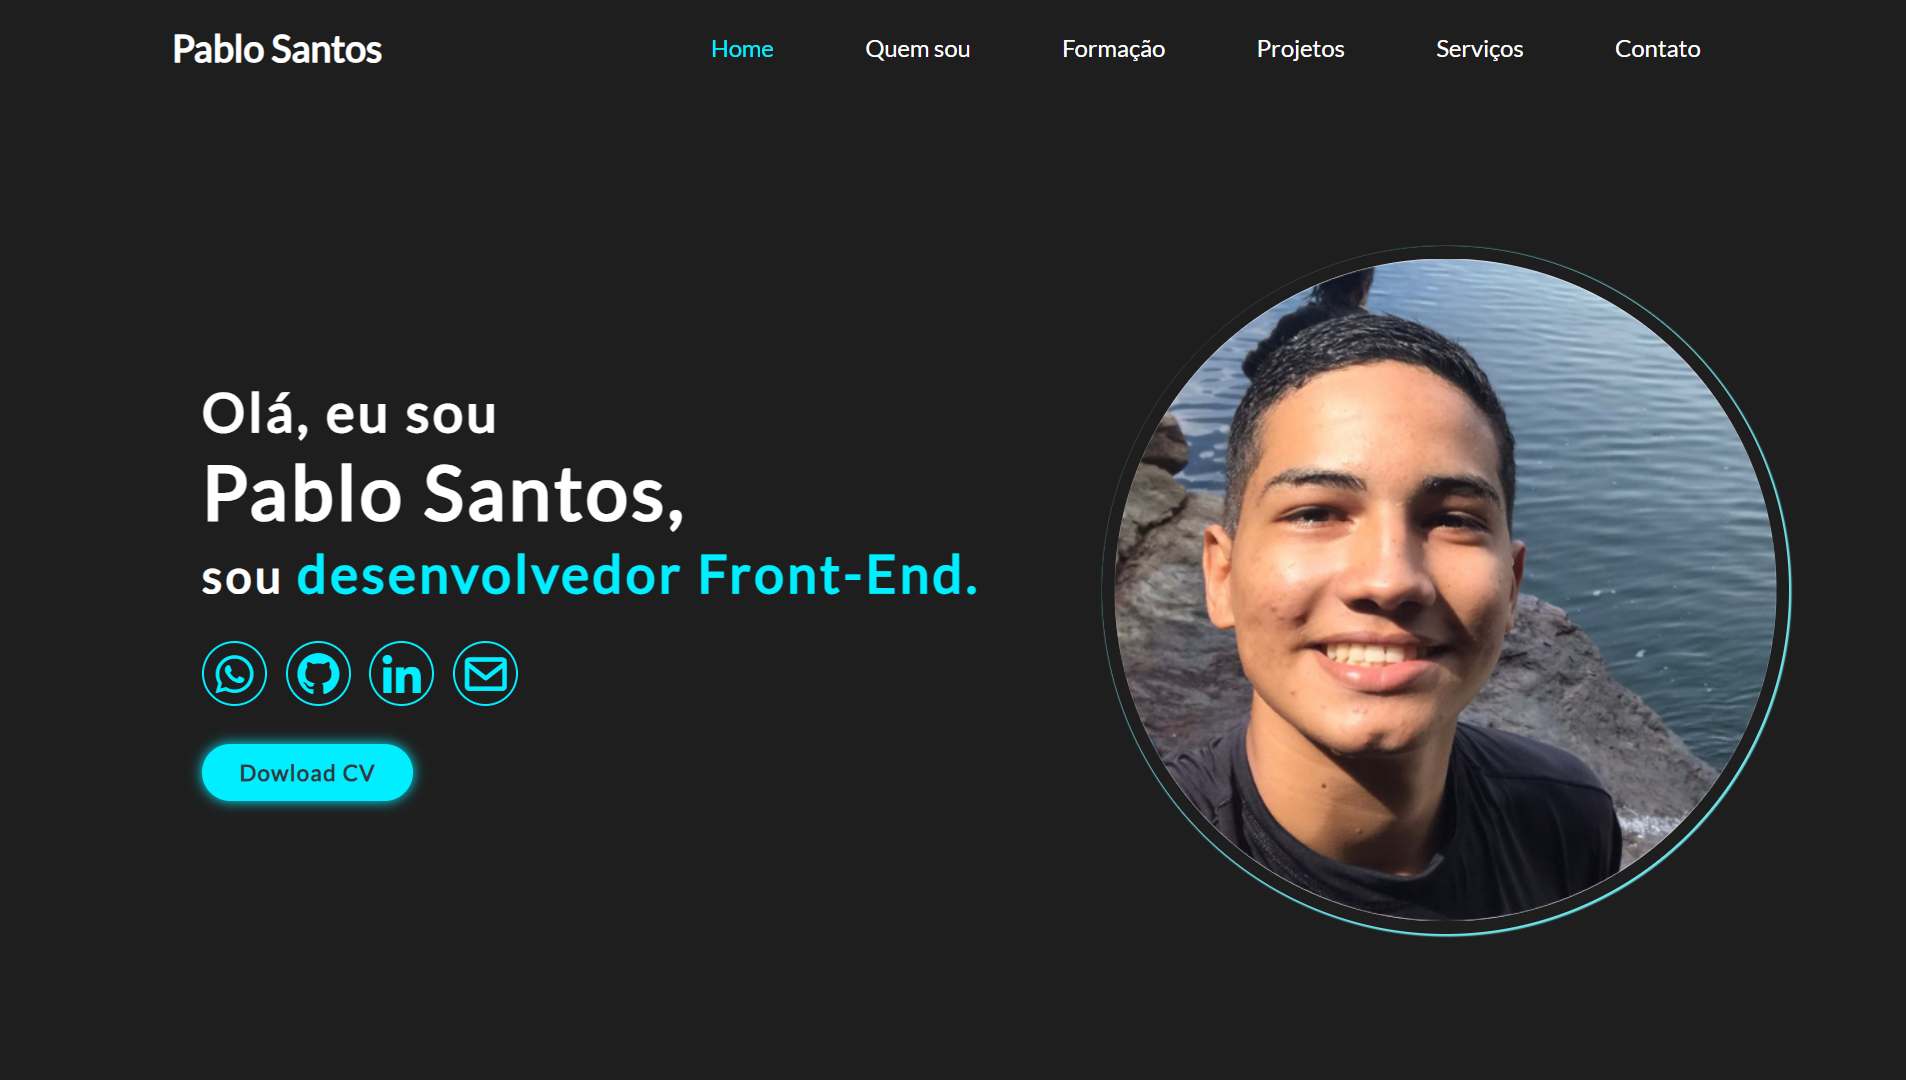
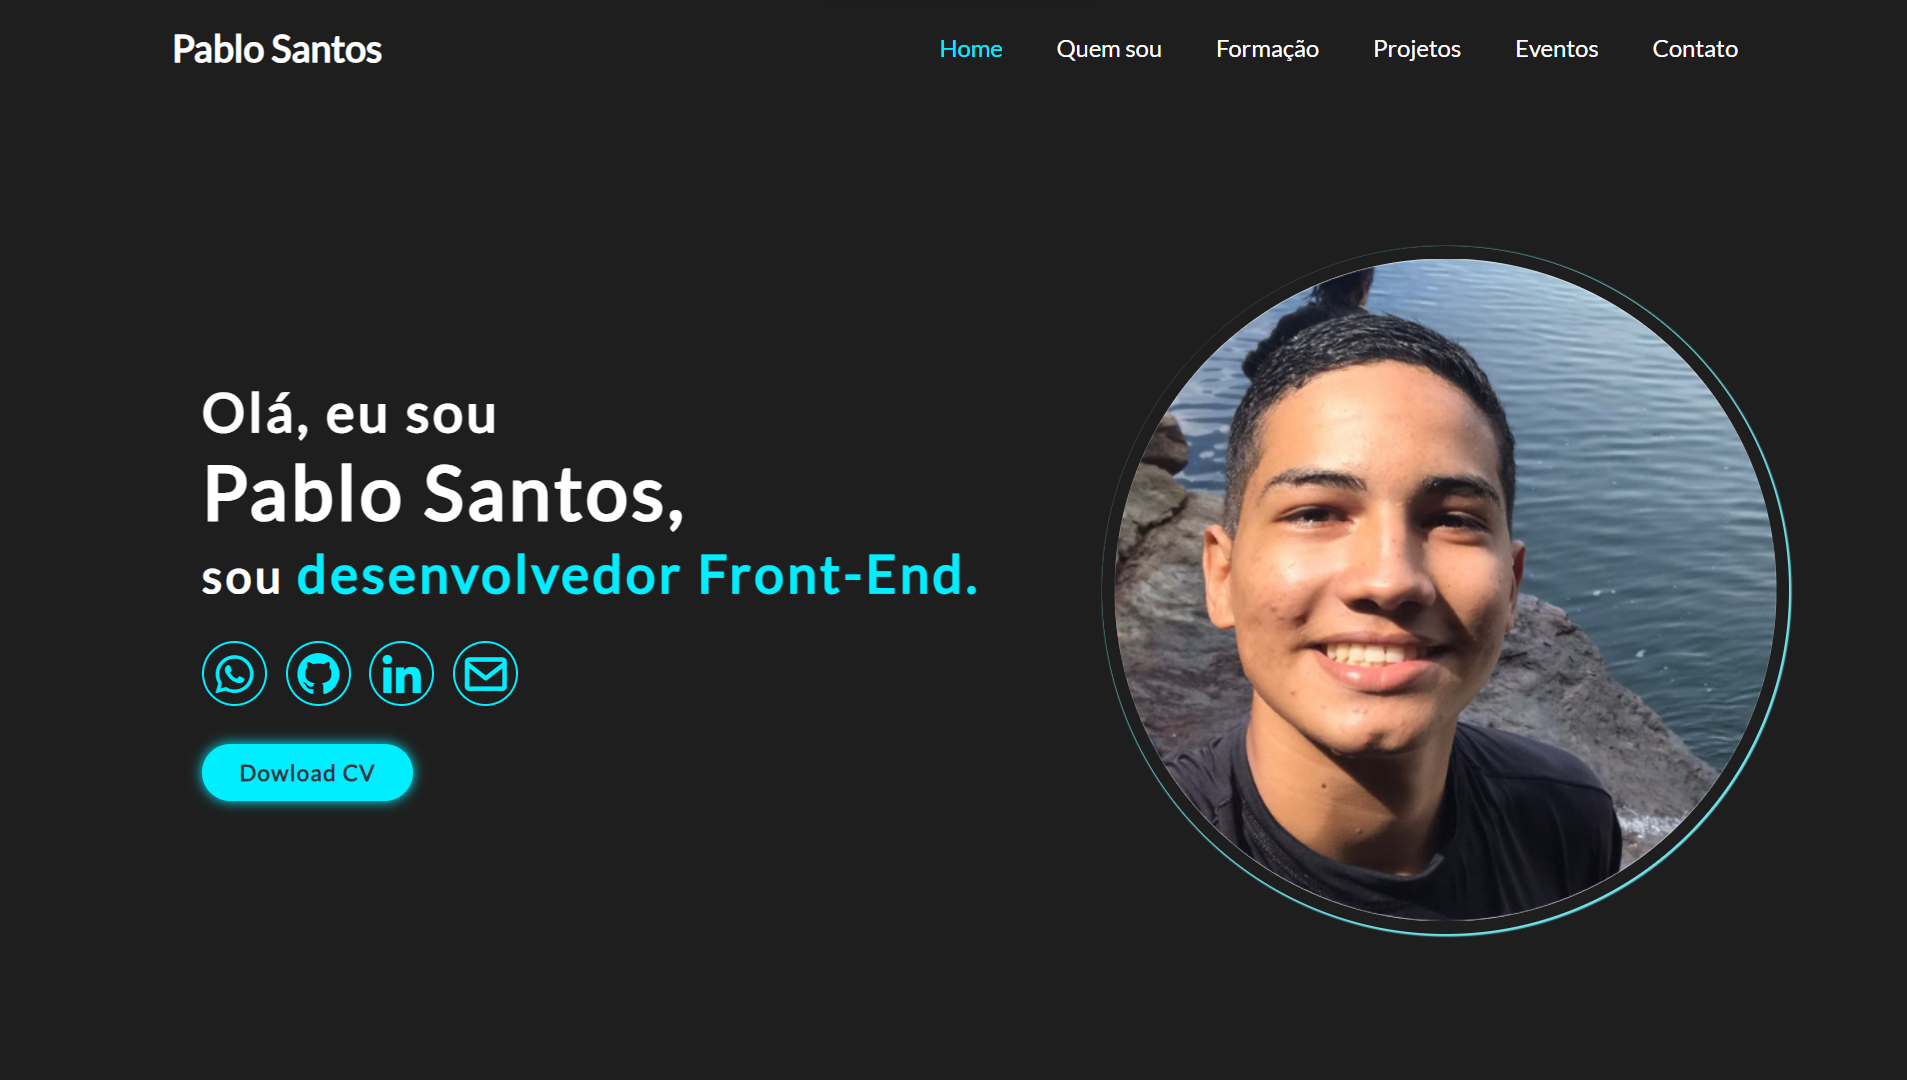
Portfólio - Responsividade e página eventos

diff --git a/index.html b/index.html
@@ -343,7 +343,7 @@
       </div>
     </section>
 
-    <!-- EVENTOS -->
+    <!-- Eventos -->
     <section class="eventos" id="eventos">
       <div class="grid-layout">
         <h2>Eventos</h2>

diff --git a/style.css b/style.css
@@ -595,7 +595,7 @@ span {
 }
 
 
-/* eventos */
+/* serviços */
 
 .eventos {
     padding: 12px 0px 0px 0px;
